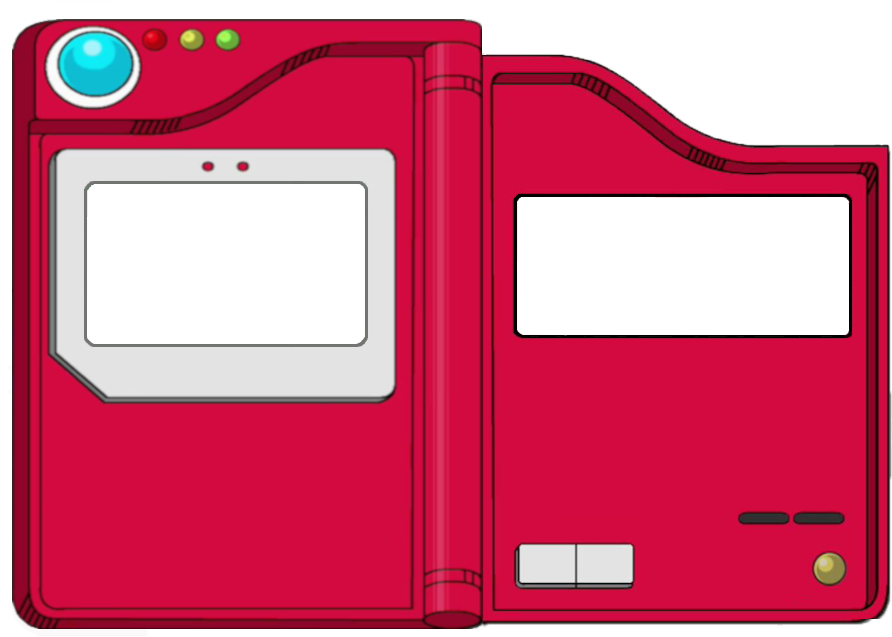
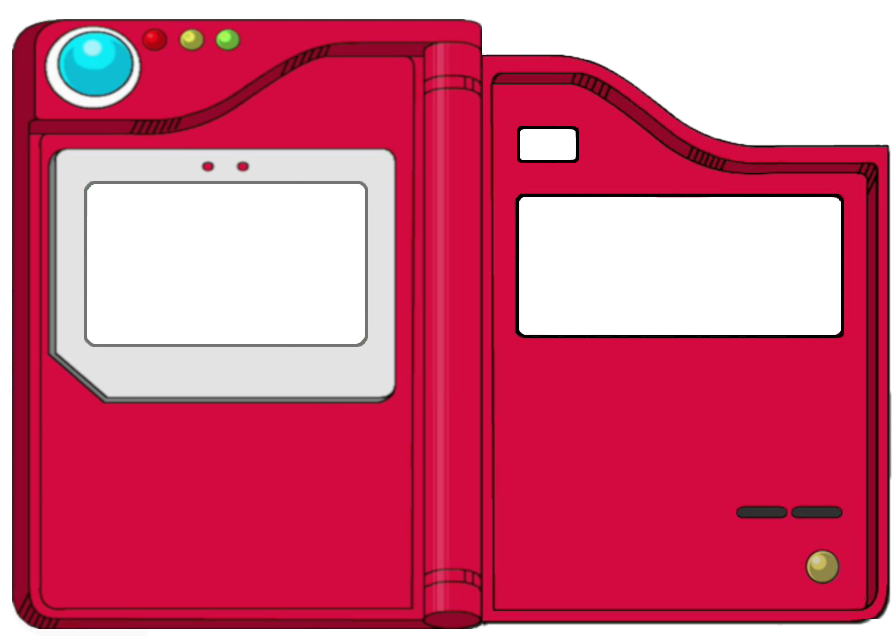
correção da logica btn next e prev, adição btn all

diff --git a/js/script.js b/js/script.js
@@ -8,15 +8,16 @@ const height = document.querySelector('.info-height');
 const weight = document.querySelector('.info-weight');
 const abilities = document.querySelector('.info-abilities');
 const category = document.querySelector('.info-category');
+const counter = document.querySelector('.info-counter');
 
 const form = document.querySelector('.form');
 const input = document.querySelector('.input__search');
 
 const btnPrev = document.querySelector('.btn-prev');
-
 const btnNext = document.querySelector('.btn-next');
+const btnAll = document.querySelector('.btn-all');
 
-let searchPokemon = 1;
+let searchPokemon = 0;
 let pokemonData = []; // array com todos os dados dos pokemons
 let pokemonFiltered = [];
 let tipo = '';
@@ -24,7 +25,7 @@ let i = 0;
 const fetchPokemonEndPoints = async () => {
   const APIResponse = await fetch(
     // `https://pokeapi.co/api/v2/pokemon/${pokemon}`
-    'https://pokeapi.co/api/v2/pokemon?limit=200'
+    'https://pokeapi.co/api/v2/pokemon?limit=500'
   );
   const data = await APIResponse.json();
   const endpoints = data.results.map((pokemon) => pokemon.url);
@@ -85,23 +86,43 @@ form.addEventListener('submit', (event) => {
   input.value = '';
 });
 
+btnAll.addEventListener('click', () => {
+  counter.innerText = pokemonData.length;
+  tipo = '';
+  searchPokemon = 1;
+  pokemon = pokemonData.filter((pk) => pk.id === searchPokemon);
+  renderPokemon(pokemon[0]);
+});
+
 btnPrev.addEventListener('click', () => {
-  searchPokemon -= 1;
   let pokemon = [];
+  if (searchPokemon === 1) {
+    searchPokemon = pokemonData.length + 1;
+  }
+  if (i === 0) {
+    i = pokemonFiltered.length;
+  }
   if (tipo !== '') {
     i--;
     pokemon = pokemonFiltered[i];
     renderPokemon(pokemon);
   }
   if (tipo === '') {
+    searchPokemon -= 1;
     pokemon = pokemonData.filter((pk) => pk.id === searchPokemon);
     renderPokemon(pokemon[0]);
   }
+  console.log(searchPokemon);
 });
 
 btnNext.addEventListener('click', () => {
-  searchPokemon += 1;
   let pokemon = [];
+  if (searchPokemon === pokemonData.length - 1) {
+    searchPokemon = 0;
+  }
+  if (i === pokemonFiltered.length - 1) {
+    i = -1;
+  }
 
   if (tipo !== '') {
     i++;
@@ -109,13 +130,16 @@ btnNext.addEventListener('click', () => {
     renderPokemon(pokemon);
   }
   if (tipo === '') {
+    searchPokemon += 1;
     pokemon = pokemonData.filter((pk) => pk.id === searchPokemon);
     renderPokemon(pokemon[0]);
   }
+  console.log(searchPokemon);
 });
 
 buttonsType.forEach((button) => {
   button.addEventListener('click', (ev) => {
+    i = 0;
     tipo = ev.target.innerText.toLowerCase();
     console.log(tipo);
     pokemonFiltered = pokemonData.filter((pokemon) =>
@@ -125,6 +149,8 @@ buttonsType.forEach((button) => {
     console.log(teste);
     background.src = `img/backgrounds/${tipo}Background.jpg`;
     renderPokemon(pokemonFiltered[0]);
+    console.log(`quantidade de pokemons deste tipo :${pokemonFiltered.length}`);
+    counter.innerText = pokemonFiltered.length;
   });
 });
 

diff --git a/css/style.css b/css/style.css
@@ -101,10 +101,10 @@ main {
 
 .type-buttons {
   position: absolute;
-  right: 6.7%;
+  right: 6.95%;
   bottom: 26%;
   height: 18%;
-  width: 35%;
+  width: 35.2%;
   background-color: #444;
   display: grid;
   grid-template-columns: repeat(6, 16.6%);
@@ -141,6 +141,25 @@ main {
   border-bottom: none;
 }
 
+.counter {
+  z-index: -1;
+  width: 6.5%;
+  height: 5%;
+  padding-top: 6px;
+  padding-left: 3px;
+  position: absolute;
+  background-color: rgb(17, 83, 13);
+  top: 21.5%;
+  right: 35.5%;
+  text-align: left;
+}
+
+.info-counter {
+  color: #232323b0;
+  padding-left: 13px;
+  font-weight: 700;
+}
+
 .screen {
   /* font-size: 10px; */
   color: #282b2e;
@@ -149,7 +168,7 @@ main {
   height: 23%;
   padding: 15px;
   position: absolute;
-  background-color: rgb(20, 92, 16);
+  background-color: rgb(17, 83, 13);
   top: 31%;
   right: 4.5%;
   text-align: left;
@@ -161,7 +180,7 @@ main {
 }
 
 .label {
-  color: black;
+  color: rgba(0, 0, 0, 0.735);
   font-weight: 500;
 }
 
@@ -171,4 +190,24 @@ main {
   position: absolute;
   bottom: 46.5%;
   right: 54%;
+}
+
+.btn-all {
+  color: #757575;
+  background-color: #e3e4e4;
+  padding: 0.9%;
+  position: absolute;
+  bottom: 12%;
+  right: 30%;
+  width: 12%;
+  font-size: 15px;
+  font-weight: 700;
+  border: 2px solid #484848;
+  border-radius: 5px;
+  box-shadow: -2px 1px 0 #656565, -3px 3px 0 #2f2f2f;
+}
+
+.btn-all:active {
+  box-shadow: inset -1px 2px 0 #6e6e6e;
+  font-size: 14px;
 }

diff --git a/index.html b/index.html
@@ -21,6 +21,10 @@
         <span class="pokemon__name"></span>
       </h1>
 
+      <div class="counter">
+        <span class="info-counter"></span>
+      </div>
+
       <div class="screen">
         <div>
           <span class="label"> Heigth: </span>
@@ -73,6 +77,8 @@
         <button class="btn-type Dark btn-size">Dark</button>
         <button class="btn-type Fairy btn-size">Fairy</button>
       </div>
+
+      <button class="btn-all">All</button>
 
       <img src="./img/pokedex.png" class="pokedex" />
     </main>
